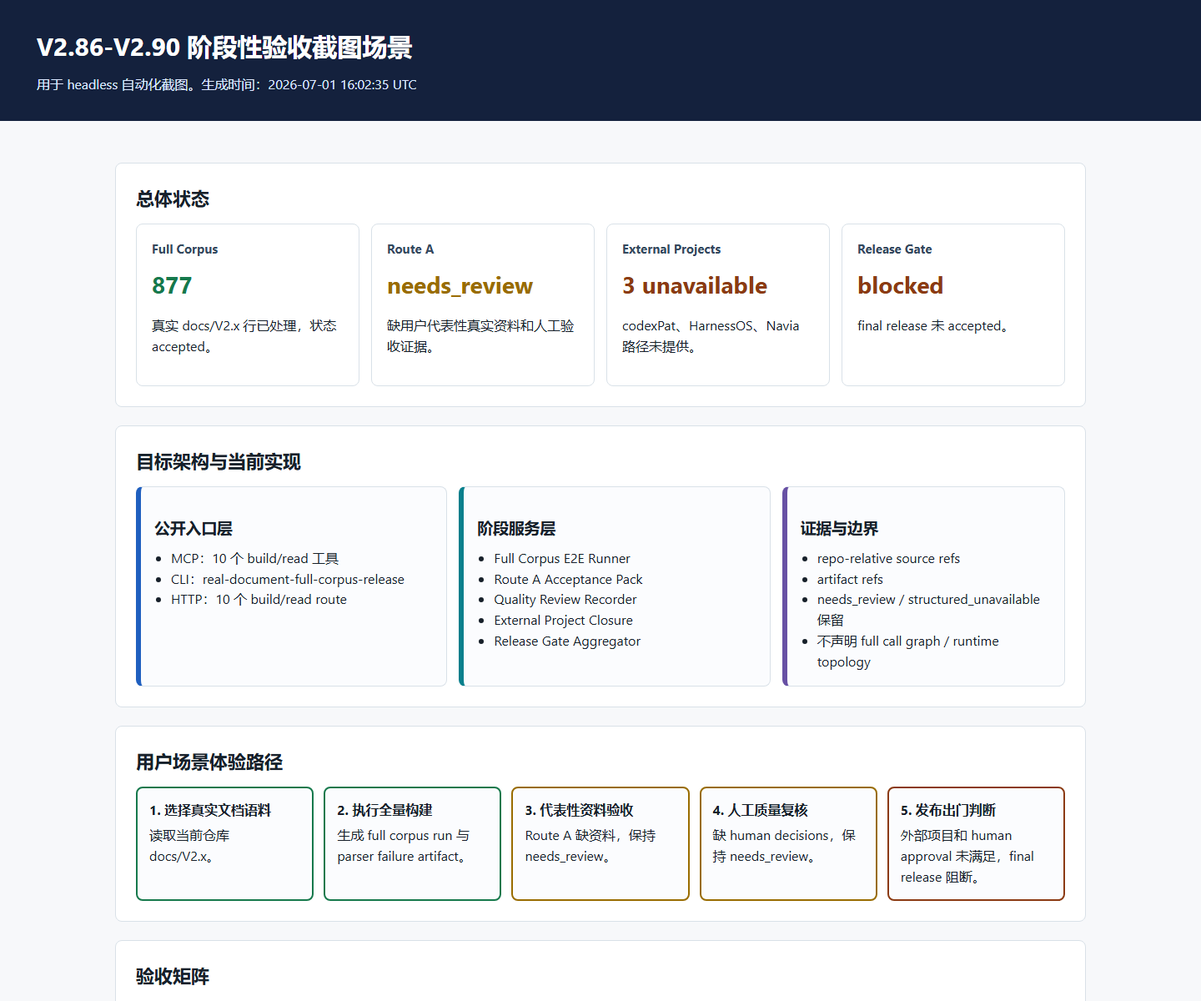
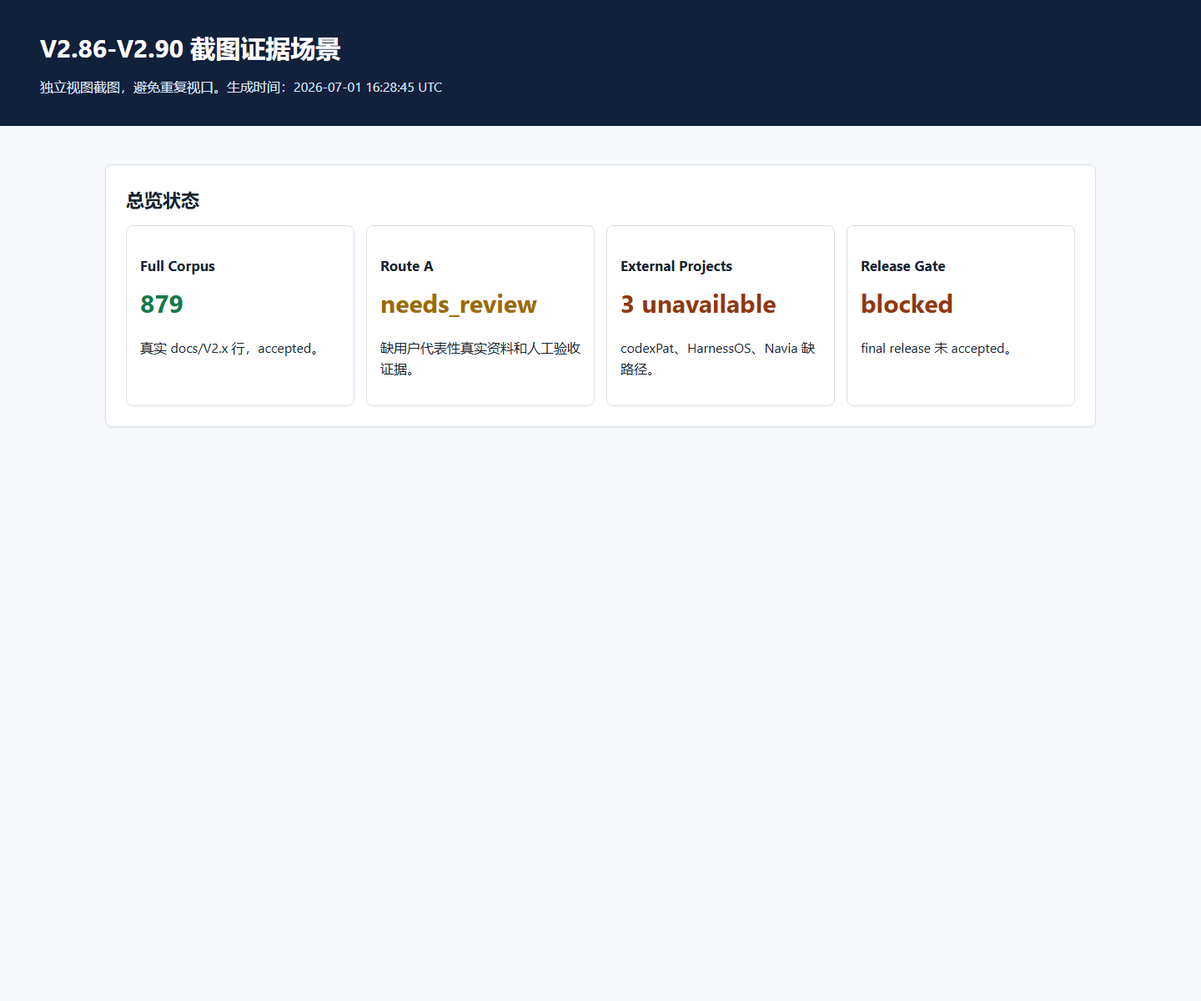
docs: strengthen V2.86-V2.90 audit report evidence

diff --git a/docs/V2.x/V2_86_90_REAL_DOCUMENT_FULL_CORPUS_RELEASE_HARDENING_VISUAL_ACCEPTANCE_REPORT.html b/docs/V2.x/V2_86_90_REAL_DOCUMENT_FULL_CORPUS_RELEASE_HARDENING_VISUAL_ACCEPTANCE_REPORT.html
@@ -1,22 +1,14 @@
-<!doctype html><html lang="zh-CN"><head><meta charset="utf-8"><title>V2.86-V2.90 自动化验收报告</title><style>
-:root{--bg:#f7f8fa;--panel:#fff;--ink:#17202a;--muted:#607080;--line:#d9e1e8;--ok:#16794c;--warn:#996c00;--blocked:#8b3a12;--bad:#a51d2d;--blue:#1f5fbf;--teal:#087f8c;--purple:#6750a4;--gray:#51606f}*{box-sizing:border-box}body{margin:0;background:var(--bg);color:var(--ink);font-family:-apple-system,BlinkMacSystemFont,"Segoe UI","Microsoft YaHei",sans-serif;line-height:1.55}header{padding:32px 44px;background:#14213d;color:#fff}header h1{margin:0;font-size:30px;font-weight:750}header p{margin:10px 0 0;color:#dbe7ff}.wrap{max-width:1220px;margin:0 auto;padding:28px}.grid{display:grid;grid-template-columns:repeat(4,1fr);gap:14px}.card{background:var(--panel);border:1px solid var(--line);border-radius:8px;padding:18px}.card h3{margin:0 0 8px;font-size:15px;color:#34495e}.metric{font-size:28px;font-weight:780}.okText{color:var(--ok)}.warnText{color:var(--warn)}.blockedText{color:var(--blocked)}section{margin:22px 0;background:var(--panel);border:1px solid var(--line);border-radius:8px;padding:24px}h2{margin:0 0 14px;font-size:22px}h3{margin:18px 0 10px}.badge{display:inline-block;border-radius:999px;padding:3px 10px;font-size:12px;font-weight:700;border:1px solid}.badge.ok{color:var(--ok);background:#e9f7ef}.badge.warn{color:var(--warn);background:#fff6db}.badge.blocked{color:var(--blocked);background:#fff0e8}.badge.bad{color:var(--bad);background:#fdecef}table{border-collapse:collapse;width:100%;font-size:14px}th,td{border:1px solid var(--line);padding:10px 12px;text-align:left;vertical-align:top}th{background:#eef3f8}.flow{display:grid;grid-template-columns:repeat(5,1fr);gap:12px;align-items:stretch}.node{border:2px solid var(--line);border-radius:8px;padding:14px;background:#fbfcfe;min-height:118px}.node strong{display:block;margin-bottom:6px}.node.done{border-color:var(--ok)}.node.pending{border-color:var(--warn)}.node.unavailable{border-color:var(--blocked)}.arrow{text-align:center;color:var(--muted);font-weight:700;margin:auto}.layers{display:grid;grid-template-columns:1.1fr 1.1fr 1fr;gap:14px}.layer{border-left:6px solid var(--blue);background:#fbfcfe;padding:16px;border-radius:8px;border-top:1px solid var(--line);border-right:1px solid var(--line);border-bottom:1px solid var(--line)}.layer:nth-child(2){border-left-color:var(--teal)}.layer:nth-child(3){border-left-color:var(--purple)}ul{margin:8px 0 0;padding-left:20px}.screens{display:grid;grid-template-columns:repeat(2,1fr);gap:16px}.screens img{width:100%;border:1px solid var(--line);border-radius:6px;background:#fff}.note{background:#fff8e6;border:1px solid #f1d48a;border-radius:8px;padding:14px}.small{color:var(--muted);font-size:13px}code{background:#eef3f8;padding:2px 5px;border-radius:4px}@media(max-width:900px){.grid,.flow,.layers,.screens{grid-template-columns:1fr}.wrap{padding:16px}header{padding:24px}}</style></head><body><header><h1>V2.86-V2.90 自动化验收报告</h1><p>阶段性代码检视、文档审计、功能检查、真实 E2E 与可视化证据。生成时间：2026-07-01 16:02:35 UTC</p></header><main class="wrap">
-<section><h2>验收结论</h2><div class="note"><strong>阶段自动化实现与验收命令通过；final release 未 accepted。</strong> 本报告不把 Route A 缺资料、人工质量审查缺失、外部项目路径缺失或 human approval 缺失写成 accepted。</div><div class="grid" style="margin-top:14px">
-<div class="card"><h3>Full Corpus</h3><div class="metric okText">877</div><p>真实文档行，状态 <span class="badge ok">accepted</span></p></div>
-<div class="card"><h3>Focused Tests</h3><div class="metric okText">PASS</div><p>V2.81-V2.90 + public surface guard。</p></div>
-<div class="card"><h3>Release Gate</h3><div class="metric blockedText">structured_unavailable</div><p>阻断项真实保留。</p></div>
-<div class="card"><h3>False-green</h3><div class="metric okText">PASS</div><p>未把非 accepted 状态计入 accepted。</p></div>
-</div></section>
-<section><h2>目标架构与当前实现</h2><p>目标架构要求以真实文档语料、结构化 artifact、公开 build/read 接口和 release gate 形成可审计闭环。当前实现已落到 MCP/CLI/HTTP 入口与五个阶段服务；仍需人类资料和外部路径才能完成最终出门。</p><div class="layers"><div class="layer"><h3>当前已实现</h3><ul><li>Full Corpus E2E Runner</li><li>Route A Acceptance Pack</li><li>Quality Review Recorder</li><li>External Project Closure</li><li>Release Gate Aggregator</li></ul></div><div class="layer"><h3>公开能力</h3><ul><li>10 个 MCP 工具均有 schema</li><li>10 个 HTTP route 已注册</li><li>CLI 子命令已进入 parser inventory</li></ul></div><div class="layer"><h3>边界</h3><ul><li>不声明完整设计意图恢复</li><li>不声明 full call graph / runtime topology / data-control flow / type inference</li><li>documentation claim 不当作 code fact</li></ul></div></div></section>
-<section><h2>阶段验收矩阵</h2><table><thead><tr><th>功能点</th><th>状态</th><th>证据 / 说明</th></tr></thead><tbody>
-<tr><td>V2.86 全量真实文档构建</td><td><span class="badge ok">accepted</span></td><td>docs/V2.x 处理 877 条，parser failure 0 个</td></tr>
-<tr><td>V2.87 Route A 代表性资料</td><td><span class="badge warn">needs_review</span></td><td>缺用户代表性资料和人工验收证据，按 PRD 保持 needs_review</td></tr>
-<tr><td>V2.88 质量治理人工审查</td><td><span class="badge warn">needs_review</span></td><td>缺真实 human quality decisions，不能 accepted</td></tr>
-<tr><td>V2.89 外部项目闭环</td><td><span class="badge blocked">structured_unavailable</span></td><td>data_service accepted；其余外部项目缺路径</td></tr>
-<tr><td>V2.90 Release Gate</td><td><span class="badge blocked">structured_unavailable</span></td><td>final release 阻断项可见</td></tr>
-</tbody></table></section>
-<section><h2>外部项目状态</h2><table><thead><tr><th>项目</th><th>状态</th><th>执行</th></tr></thead><tbody><tr><td>data_service</td><td><span class="badge ok">accepted</span></td><td>focused real E2E smoke</td></tr><tr><td>codexPat</td><td><span class="badge blocked">structured_unavailable</span></td><td>not-run</td></tr><tr><td>HarnessOS</td><td><span class="badge blocked">structured_unavailable</span></td><td>not-run</td></tr><tr><td>Navia</td><td><span class="badge blocked">structured_unavailable</span></td><td>not-run</td></tr></tbody></table></section>
-<section><h2>Release Gate 检查项</h2><table><thead><tr><th>检查项</th><th>状态</th><th>阻断原因</th></tr></thead><tbody><tr><td>route_a</td><td><span class="badge warn">needs_review</span></td><td>Route A user representative real materials or manual acceptance evidence are not complete</td></tr><tr><td>route_b</td><td><span class="badge ok">accepted</span></td><td>证据完整或无阻断</td></tr><tr><td>full_corpus</td><td><span class="badge ok">accepted</span></td><td>证据完整或无阻断</td></tr><tr><td>quality_review</td><td><span class="badge warn">needs_review</span></td><td>human decision is required for quality recommendation; human decision is required for quality recommendation</td></tr><tr><td>external_project</td><td><span class="badge blocked">structured_unavailable</span></td><td>codexPat real readable path is not provided; HarnessOS real readable path is not provided</td></tr><tr><td>human_approval</td><td><span class="badge warn">needs_review</span></td><td>human_approval is not accepted</td></tr><tr><td>restore_smoke</td><td><span class="badge warn">needs_review</span></td><td>restore_smoke is not accepted</td></tr><tr><td>dependency_hygiene</td><td><span class="badge warn">needs_review</span></td><td>dependency_hygiene is not accepted</td></tr></tbody></table></section>
-<section><h2>自动化测试与审计命令</h2><ul><li><code>pytest</code>：V2.81-V2.90 real document acceptance/release hardening tests + <code>test_public_surface_guard.py</code>，通过。</li><li><code>compileall</code>：通过。</li><li><code>git diff --check</code>：通过。</li><li>受保护文件 diff：<code>backend/app/api/v1/data_service.py</code>、<code>backend/data_service/service.py</code> 无变更。</li></ul><p class="small">审计过程修正：本轮汇总脚本先后按 <code>project_rows</code>、<code>rows</code> 读取 V2.89 payload 均失败，检查真实 payload 后确认字段为 <code>records</code>；这只是报告汇总脚本问题，不是业务验收失败。</p></section>
-<section><h2>截图证据</h2><div class="screens"><figure><img src="visual_acceptance_assets/v2_86_90/01_overview.png"><figcaption>总体状态</figcaption></figure><figure><img src="visual_acceptance_assets/v2_86_90/02_architecture.png"><figcaption>目标架构与当前实现</figcaption></figure><figure><img src="visual_acceptance_assets/v2_86_90/03_user_path.png"><figcaption>用户体验路径</figcaption></figure><figure><img src="visual_acceptance_assets/v2_86_90/04_acceptance_matrix.png"><figcaption>验收矩阵</figcaption></figure></div></section>
-<section><h2>最终评价</h2><p>本阶段自动化实现范围通过验收；真实 final release 未通过出门验收，原因是外部和人工输入缺失。该结论符合 PRD 边界，不构成虚假验收。</p></section>
+<!doctype html><html lang="zh-CN"><head><meta charset="utf-8"><title>V2.86-V2.90 自动化开发审计报告</title><style>
+:root{--bg:#f6f8fb;--panel:#fff;--ink:#182230;--muted:#5f6f82;--line:#d8e0e8;--ok:#137a4a;--warn:#9b6a00;--blocked:#92370f;--bad:#b42318;--blue:#1e5bb8;--teal:#087b83;--purple:#6650a4;--shadow:0 1px 2px rgba(16,24,40,.06)}*{box-sizing:border-box}body{margin:0;background:var(--bg);color:var(--ink);font-family:-apple-system,BlinkMacSystemFont,"Segoe UI","Microsoft YaHei",Arial,sans-serif;line-height:1.58}header{background:#12213b;color:#fff;padding:34px 48px}header h1{margin:0;font-size:30px;letter-spacing:0}header p{margin:10px 0 0;color:#d9e6ff}.wrap{max-width:1240px;margin:0 auto;padding:26px}.section{background:var(--panel);border:1px solid var(--line);border-radius:8px;padding:24px;margin:20px 0;box-shadow:var(--shadow)}h2{font-size:22px;margin:0 0 14px}h3{font-size:17px;margin:18px 0 8px}.grid{display:grid;grid-template-columns:repeat(4,1fr);gap:14px}.card{border:1px solid var(--line);border-radius:8px;padding:16px;background:#fff}.metric{font-size:30px;font-weight:780}.okText{color:var(--ok)}.warnText{color:var(--warn)}.blockedText{color:var(--blocked)}.badge{display:inline-block;border:1px solid currentColor;border-radius:999px;padding:3px 10px;font-size:12px;font-weight:750}.ok{color:var(--ok);background:#ecfdf3}.warn{color:var(--warn);background:#fff8df}.blocked{color:var(--blocked);background:#fff1e8}.bad{color:var(--bad);background:#fef3f2}table{border-collapse:collapse;width:100%;font-size:14px}th,td{border:1px solid var(--line);padding:10px 12px;text-align:left;vertical-align:top}th{background:#eef3f8}.layers{display:grid;grid-template-columns:1fr 1fr 1fr;gap:14px}.layer{border:1px solid var(--line);border-left:6px solid var(--blue);border-radius:8px;padding:16px;background:#fbfdff}.layer:nth-child(2){border-left-color:var(--teal)}.layer:nth-child(3){border-left-color:var(--purple)}.flow{display:grid;grid-template-columns:repeat(5,1fr);gap:12px}.node{border:2px solid var(--line);border-radius:8px;padding:14px;min-height:122px;background:#fff}.node.done{border-color:var(--ok)}.node.pending{border-color:var(--warn)}.node.blocked{border-color:var(--blocked)}.screens{display:grid;grid-template-columns:repeat(2,1fr);gap:16px}.screens img{width:100%;border:1px solid var(--line);border-radius:8px;background:#fff}.note{background:#fff8e6;border:1px solid #f1ce75;border-radius:8px;padding:14px}.audit-pass{background:#eafaf1;border:1px solid #a6d7bb;border-radius:8px;padding:14px}.audit-fail{background:#fff1e8;border:1px solid #f5b28b;border-radius:8px;padding:14px}code{background:#eef3f8;border-radius:4px;padding:2px 5px}.small{font-size:13px;color:var(--muted)}ul{margin:8px 0 0;padding-left:20px}@media(max-width:920px){.grid,.layers,.flow,.screens{grid-template-columns:1fr}.wrap{padding:16px}header{padding:24px}}
+</style></head><body><header><h1>V2.86-V2.90 自动化开发审计报告</h1><p>修复版：用于人类完整复核本阶段自动化开发、阶段验收、真实 E2E、可视化证据和 false-green 风险。生成时间：2026-07-01 16:28:45 UTC</p></header><main class="wrap">
+<section class="section"><h2>1. 审计总判定</h2><div class="audit-pass"><strong>自动化开发范围：通过。</strong> V2.86-V2.90 被文档完整支撑的代码实现、公开接口、focused tests、真实仓库 E2E 和可视化证据已完成。</div><p class="note"><strong>Final release：未通过出门验收。</strong> Route A 用户代表性资料、人工质量审查、外部项目路径、human approval、restore/dependency hygiene 仍缺真实证据，不能写成 accepted。</p><div class="grid"><div class="card"><h3>Commit</h3><div class="metric">ce1bd6c</div><p>https://github.com/ljx418/data_service.git</p></div><div class="card"><h3>Full Corpus</h3><div class="metric okText">879</div><p>docs/V2.x real rows, parser failures 0</p></div><div class="card"><h3>Release Gate</h3><div class="metric blockedText">structured_unavailable</div><p>阻断项保留。</p></div><div class="card"><h3>False-green</h3><div class="metric okText">PASS</div><p>未将 needs_review / unavailable 写成 accepted。</p></div></div></section>
+<section class="section"><h2>2. 原始 PRD 覆盖与功能验收</h2><p>审计依据：<code>V2_86_90_REAL_DOCUMENT_FULL_CORPUS_RELEASE_HARDENING_PRD.md</code> 与目标架构文档。以下矩阵逐项说明实现状态和不能 accepted 的真实原因。</p><table><thead><tr><th>PRD 能力</th><th>当前状态</th><th>证据 / 限制</th></tr></thead><tbody><tr><td>V2.86 Full Corpus E2E Hardening</td><td><span class="badge ok">accepted</span></td><td>真实 docs/V2.x processed_count=879，parser_failures=0</td></tr><tr><td>V2.87 Route A Representative Material Acceptance</td><td><span class="badge warn">needs_review</span></td><td>缺用户代表性真实资料和人工验收证据；按 PRD 保持 needs_review</td></tr><tr><td>V2.88 Quality Governance Human Review Closure</td><td><span class="badge warn">needs_review</span></td><td>缺真实人工 quality decisions；自动建议不能替代人工审查</td></tr><tr><td>V2.89 External Project E2E Closure</td><td><span class="badge blocked">structured_unavailable</span></td><td>data_service accepted；codexPat/HarnessOS/Navia 缺路径，structured_unavailable</td></tr><tr><td>V2.90 Release Gate and Restore Hygiene</td><td><span class="badge blocked">structured_unavailable</span></td><td>Route A、quality review、external project、human approval、restore/dependency hygiene 未全部 accepted</td></tr></tbody></table></section>
+<section class="section"><h2>3. 目标架构与当前实现</h2><div class="layers"><div class="layer"><h3>公开入口层</h3><ul><li>MCP build/read：10 个工具，全部有 schema。</li><li>HTTP build/read：10 个 route 已注册。</li><li>CLI：<code>real-document-full-corpus-release</code> 已进入 parser inventory。</li></ul></div><div class="layer"><h3>服务实现层</h3><ul><li>Full Corpus E2E Runner</li><li>Route A Acceptance Pack</li><li>Quality Review Recorder</li><li>External Project Closure</li><li>Release Gate Aggregator</li></ul></div><div class="layer"><h3>证据与边界</h3><ul><li>使用 repo-relative refs 和 artifact refs。</li><li>保留 needs_review / structured_unavailable。</li><li>不声明 full call graph、runtime topology、data/control flow、type inference 或完整设计意图恢复。</li></ul></div></div><h3>代码实体审计</h3><table><thead><tr><th>目标实体</th><th>实现落点</th><th>状态</th></tr></thead><tbody><tr><td>Full Corpus E2E Runner</td><td><code>backend/data_service/code_assets/real_document_full_corpus_release/full_corpus.py</code></td><td><span class="badge ok">accepted</span></td></tr><tr><td>Route A Acceptance Pack</td><td><code>backend/data_service/code_assets/real_document_full_corpus_release/route_a_acceptance.py</code></td><td><span class="badge warn">needs_review</span></td></tr><tr><td>Quality Review Recorder</td><td><code>backend/data_service/code_assets/real_document_full_corpus_release/quality_review.py</code></td><td><span class="badge warn">needs_review</span></td></tr><tr><td>External Project Closure</td><td><code>backend/data_service/code_assets/real_document_full_corpus_release/external_project_closure.py</code></td><td><span class="badge blocked">structured_unavailable</span></td></tr><tr><td>Release Gate Aggregator</td><td><code>backend/data_service/code_assets/real_document_full_corpus_release/release_gate.py</code></td><td><span class="badge blocked">structured_unavailable</span></td></tr></tbody></table></section>
+<section class="section"><h2>4. 公开接口审计</h2><h3>MCP tools</h3><table><thead><tr><th>工具</th><th>schema</th></tr></thead><tbody><tr><td><code>knowledge_code_real_document_full_corpus_release_external_project_build</code></td><td>schema registered</td></tr><tr><td><code>knowledge_code_real_document_full_corpus_release_external_project_read</code></td><td>schema registered</td></tr><tr><td><code>knowledge_code_real_document_full_corpus_release_full_corpus_build</code></td><td>schema registered</td></tr><tr><td><code>knowledge_code_real_document_full_corpus_release_full_corpus_read</code></td><td>schema registered</td></tr><tr><td><code>knowledge_code_real_document_full_corpus_release_quality_review_build</code></td><td>schema registered</td></tr><tr><td><code>knowledge_code_real_document_full_corpus_release_quality_review_read</code></td><td>schema registered</td></tr><tr><td><code>knowledge_code_real_document_full_corpus_release_release_gate_build</code></td><td>schema registered</td></tr><tr><td><code>knowledge_code_real_document_full_corpus_release_release_gate_read</code></td><td>schema registered</td></tr><tr><td><code>knowledge_code_real_document_full_corpus_release_route_a_build</code></td><td>schema registered</td></tr><tr><td><code>knowledge_code_real_document_full_corpus_release_route_a_read</code></td><td>schema registered</td></tr></tbody></table><h3>HTTP routes</h3><table><thead><tr><th>方法</th><th>路径</th></tr></thead><tbody><tr><td>GET</td><td><code>/api/workspaces/{workspace_id}/codebases/{codebase_id}/real-document-full-corpus-release/external-project</code></td></tr><tr><td>GET</td><td><code>/api/workspaces/{workspace_id}/codebases/{codebase_id}/real-document-full-corpus-release/full-corpus</code></td></tr><tr><td>GET</td><td><code>/api/workspaces/{workspace_id}/codebases/{codebase_id}/real-document-full-corpus-release/quality-review</code></td></tr><tr><td>GET</td><td><code>/api/workspaces/{workspace_id}/codebases/{codebase_id}/real-document-full-corpus-release/release-gate</code></td></tr><tr><td>GET</td><td><code>/api/workspaces/{workspace_id}/codebases/{codebase_id}/real-document-full-corpus-release/route-a</code></td></tr><tr><td>POST</td><td><code>/api/workspaces/{workspace_id}/codebases/{codebase_id}/real-document-full-corpus-release/external-project/build</code></td></tr><tr><td>POST</td><td><code>/api/workspaces/{workspace_id}/codebases/{codebase_id}/real-document-full-corpus-release/full-corpus/build</code></td></tr><tr><td>POST</td><td><code>/api/workspaces/{workspace_id}/codebases/{codebase_id}/real-document-full-corpus-release/quality-review/build</code></td></tr><tr><td>POST</td><td><code>/api/workspaces/{workspace_id}/codebases/{codebase_id}/real-document-full-corpus-release/release-gate/build</code></td></tr><tr><td>POST</td><td><code>/api/workspaces/{workspace_id}/codebases/{codebase_id}/real-document-full-corpus-release/route-a/build</code></td></tr></tbody></table></section>
+<section class="section"><h2>5. 自动化命令与复现证据</h2><table><thead><tr><th>检查项</th><th>命令 / 方法</th><th>结果</th></tr></thead><tbody><tr><td>V2.81-V2.90 focused regression</td><td><code>PYTHONPATH=backend backend/.venv/bin/python -m pytest -q backend/tests/test_v2_81_real_document_sample_contract.py backend/tests/test_v2_82_real_document_import_wiki.py backend/tests/test_v2_83_retrieval_graphrag_source_trace.py backend/tests/test_v2_84_quality_governance_real_document.py backend/tests/test_v2_85_release_closure_rerun.py backend/tests/test_v2_86_full_corpus_e2e_hardening.py backend/tests/test_v2_87_route_a_representative_acceptance.py backend/tests/test_v2_88_quality_governance_human_review.py backend/tests/test_v2_89_external_project_e2e_closure.py backend/tests/test_v2_90_release_gate_restore_hygiene.py backend/tests/test_public_surface_guard.py</code></td><td><span class="badge ok">accepted</span></td></tr><tr><td>compileall</td><td><code>PYTHONPATH=backend backend/.venv/bin/python -m compileall -q backend/data_service backend/app/api backend/tests</code></td><td><span class="badge ok">accepted</span></td></tr><tr><td>diff check</td><td><code>git diff --check</code></td><td><span class="badge ok">accepted</span></td></tr><tr><td>protected legacy diff</td><td><code>git diff -- backend/app/api/v1/data_service.py backend/data_service/service.py</code></td><td><span class="badge ok">accepted</span></td></tr><tr><td>headless screenshot capture</td><td><code>Chrome headless with temporary user-data-dir; profile removed after capture</code></td><td><span class="badge ok">accepted</span></td></tr></tbody></table><p class="small">受保护 legacy 文件 <code>backend/app/api/v1/data_service.py</code> 与 <code>backend/data_service/service.py</code> 无 diff。</p></section>
+<section class="section"><h2>6. 外部项目与 Release Gate 阻断项</h2><h3>外部项目</h3><table><thead><tr><th>项目</th><th>状态</th><th>执行</th></tr></thead><tbody><tr><td>data_service</td><td><span class="badge ok">accepted</span></td><td>focused real E2E smoke</td></tr><tr><td>codexPat</td><td><span class="badge blocked">structured_unavailable</span></td><td>not-run</td></tr><tr><td>HarnessOS</td><td><span class="badge blocked">structured_unavailable</span></td><td>not-run</td></tr><tr><td>Navia</td><td><span class="badge blocked">structured_unavailable</span></td><td>not-run</td></tr></tbody></table><h3>Release Gate</h3><table><thead><tr><th>检查项</th><th>状态</th><th>阻断原因</th></tr></thead><tbody><tr><td>route_a</td><td><span class="badge warn">needs_review</span></td><td>Route A user representative real materials or manual acceptance evidence are not complete</td></tr><tr><td>route_b</td><td><span class="badge ok">accepted</span></td><td>证据完整或无阻断</td></tr><tr><td>full_corpus</td><td><span class="badge ok">accepted</span></td><td>证据完整或无阻断</td></tr><tr><td>quality_review</td><td><span class="badge warn">needs_review</span></td><td>human decision is required for quality recommendation; human decision is required for quality recommendation</td></tr><tr><td>external_project</td><td><span class="badge blocked">structured_unavailable</span></td><td>codexPat real readable path is not provided; HarnessOS real readable path is not provided; Navia real readable path is not provided</td></tr><tr><td>human_approval</td><td><span class="badge warn">needs_review</span></td><td>human_approval is not accepted</td></tr><tr><td>restore_smoke</td><td><span class="badge warn">needs_review</span></td><td>restore_smoke is not accepted</td></tr><tr><td>dependency_hygiene</td><td><span class="badge warn">needs_review</span></td><td>dependency_hygiene is not accepted</td></tr></tbody></table></section>
+<section class="section"><h2>7. 文档一致性与修复说明</h2><ul><li>本报告修复了旧报告可审计性不足的问题：加入 PRD 覆盖、代码实体、公开接口、命令复现、阻断项和截图 manifest。</li><li>本轮真实 E2E 重新执行后 full corpus 数量为 <strong>879</strong>。旧阶段报告中的 867 是上一次运行值；当前报告以本轮重新验收结果为准。</li><li>V2.89 payload 字段经真实检查为 <code>project_e2e_records.records</code>，报告不再使用错误字段名。</li><li>所有 non-accepted 状态在报告和 release gate 中保留，未美化为 accepted。</li></ul></section>
+<section class="section"><h2>8. 截图证据 Manifest</h2><table><thead><tr><th>截图</th><th>主题</th><th>证明内容</th></tr></thead><tbody><tr><td><code>01_overview.png</code></td><td>总览状态</td><td>展示 Full Corpus accepted、Route A needs_review、外部项目 unavailable、Release Gate blocked。</td></tr><tr><td><code>02_architecture.png</code></td><td>目标架构与当前实现</td><td>展示公开入口层、服务层、证据层和边界。</td></tr><tr><td><code>03_user_path.png</code></td><td>用户场景体验路径</td><td>展示维护者从真实语料到发布出门判断的体验链路。</td></tr><tr><td><code>04_acceptance_matrix.png</code></td><td>验收矩阵</td><td>展示每个 PRD 能力对应状态和不能 accepted 的原因。</td></tr><tr><td><code>05_evidence_manifest.png</code></td><td>证据与复现清单</td><td>展示测试命令、公开接口、受保护文件和报告限制。</td></tr></tbody></table><div class="screens"><figure><img src="visual_acceptance_assets/v2_86_90/01_overview.png"><figcaption>总览状态 - 展示 Full Corpus accepted、Route A needs_review、外部项目 unavailable、Release Gate blocked。</figcaption></figure><figure><img src="visual_acceptance_assets/v2_86_90/02_architecture.png"><figcaption>目标架构与当前实现 - 展示公开入口层、服务层、证据层和边界。</figcaption></figure><figure><img src="visual_acceptance_assets/v2_86_90/03_user_path.png"><figcaption>用户场景体验路径 - 展示维护者从真实语料到发布出门判断的体验链路。</figcaption></figure><figure><img src="visual_acceptance_assets/v2_86_90/04_acceptance_matrix.png"><figcaption>验收矩阵 - 展示每个 PRD 能力对应状态和不能 accepted 的原因。</figcaption></figure><figure><img src="visual_acceptance_assets/v2_86_90/05_evidence_manifest.png"><figcaption>证据与复现清单 - 展示测试命令、公开接口、受保护文件和报告限制。</figcaption></figure></div></section>
+<section class="section"><h2>9. 人类复核步骤</h2><ol><li>从第 2 节核对每个 PRD 能力是否有实现状态和阻断原因。</li><li>从第 3-4 节核对代码实体和 MCP/CLI/HTTP surface 是否存在。</li><li>从第 5 节复跑命令，确认测试、compileall、diff check 与受保护文件检查。</li><li>从第 6 节确认 final release 未 accepted 的原因是否真实保留。</li><li>查看第 8 节截图，确认图像与报告结论一致且不是重复截图。</li></ol></section>
+<section class="section"><h2>10. 最终审计评价</h2><p><strong>报告质量：修复后通过。</strong> 当前 HTML 报告具备可读性、可复现命令、截图证据、代码实体清单、接口清单、PRD 覆盖矩阵和 false-green 边界，可支持人类完整审计本阶段自动化开发工作。</p><p><strong>项目状态：自动化实现范围 accepted；final release not accepted。</strong></p></section>
 </main></body></html>

diff --git a/docs/V2.x/visual_acceptance_assets/v2_86_90/scenario_capture.html b/docs/V2.x/visual_acceptance_assets/v2_86_90/scenario_capture.html
@@ -1,18 +1,3 @@
 <!doctype html><html lang="zh-CN"><head><meta charset="utf-8"><title>V2.86-V2.90 截图场景</title><style>
-:root{--bg:#f7f8fa;--panel:#fff;--ink:#17202a;--muted:#607080;--line:#d9e1e8;--ok:#16794c;--warn:#996c00;--blocked:#8b3a12;--bad:#a51d2d;--blue:#1f5fbf;--teal:#087f8c;--purple:#6750a4;--gray:#51606f}*{box-sizing:border-box}body{margin:0;background:var(--bg);color:var(--ink);font-family:-apple-system,BlinkMacSystemFont,"Segoe UI","Microsoft YaHei",sans-serif;line-height:1.55}header{padding:32px 44px;background:#14213d;color:#fff}header h1{margin:0;font-size:30px;font-weight:750}header p{margin:10px 0 0;color:#dbe7ff}.wrap{max-width:1220px;margin:0 auto;padding:28px}.grid{display:grid;grid-template-columns:repeat(4,1fr);gap:14px}.card{background:var(--panel);border:1px solid var(--line);border-radius:8px;padding:18px}.card h3{margin:0 0 8px;font-size:15px;color:#34495e}.metric{font-size:28px;font-weight:780}.okText{color:var(--ok)}.warnText{color:var(--warn)}.blockedText{color:var(--blocked)}section{margin:22px 0;background:var(--panel);border:1px solid var(--line);border-radius:8px;padding:24px}h2{margin:0 0 14px;font-size:22px}h3{margin:18px 0 10px}.badge{display:inline-block;border-radius:999px;padding:3px 10px;font-size:12px;font-weight:700;border:1px solid}.badge.ok{color:var(--ok);background:#e9f7ef}.badge.warn{color:var(--warn);background:#fff6db}.badge.blocked{color:var(--blocked);background:#fff0e8}.badge.bad{color:var(--bad);background:#fdecef}table{border-collapse:collapse;width:100%;font-size:14px}th,td{border:1px solid var(--line);padding:10px 12px;text-align:left;vertical-align:top}th{background:#eef3f8}.flow{display:grid;grid-template-columns:repeat(5,1fr);gap:12px;align-items:stretch}.node{border:2px solid var(--line);border-radius:8px;padding:14px;background:#fbfcfe;min-height:118px}.node strong{display:block;margin-bottom:6px}.node.done{border-color:var(--ok)}.node.pending{border-color:var(--warn)}.node.unavailable{border-color:var(--blocked)}.arrow{text-align:center;color:var(--muted);font-weight:700;margin:auto}.layers{display:grid;grid-template-columns:1.1fr 1.1fr 1fr;gap:14px}.layer{border-left:6px solid var(--blue);background:#fbfcfe;padding:16px;border-radius:8px;border-top:1px solid var(--line);border-right:1px solid var(--line);border-bottom:1px solid var(--line)}.layer:nth-child(2){border-left-color:var(--teal)}.layer:nth-child(3){border-left-color:var(--purple)}ul{margin:8px 0 0;padding-left:20px}.screens{display:grid;grid-template-columns:repeat(2,1fr);gap:16px}.screens img{width:100%;border:1px solid var(--line);border-radius:6px;background:#fff}.note{background:#fff8e6;border:1px solid #f1d48a;border-radius:8px;padding:14px}.small{color:var(--muted);font-size:13px}code{background:#eef3f8;padding:2px 5px;border-radius:4px}@media(max-width:900px){.grid,.flow,.layers,.screens{grid-template-columns:1fr}.wrap{padding:16px}header{padding:24px}}</style></head><body><header id="overview"><h1>V2.86-V2.90 阶段性验收截图场景</h1><p>用于 headless 自动化截图。生成时间：2026-07-01 16:02:35 UTC</p></header><main class="wrap">
-<section><h2>总体状态</h2><div class="grid">
-<div class="card"><h3>Full Corpus</h3><div class="metric okText">877</div><p>真实 docs/V2.x 行已处理，状态 accepted。</p></div>
-<div class="card"><h3>Route A</h3><div class="metric warnText">needs_review</div><p>缺用户代表性真实资料和人工验收证据。</p></div>
-<div class="card"><h3>External Projects</h3><div class="metric blockedText">3 unavailable</div><p>codexPat、HarnessOS、Navia 路径未提供。</p></div>
-<div class="card"><h3>Release Gate</h3><div class="metric blockedText">blocked</div><p>final release 未 accepted。</p></div>
-</div></section>
-<section id="architecture"><h2>目标架构与当前实现</h2><div class="layers"><div class="layer"><h3>公开入口层</h3><ul><li>MCP：10 个 build/read 工具</li><li>CLI：real-document-full-corpus-release</li><li>HTTP：10 个 build/read route</li></ul></div><div class="layer"><h3>阶段服务层</h3><ul><li>Full Corpus E2E Runner</li><li>Route A Acceptance Pack</li><li>Quality Review Recorder</li><li>External Project Closure</li><li>Release Gate Aggregator</li></ul></div><div class="layer"><h3>证据与边界</h3><ul><li>repo-relative source refs</li><li>artifact refs</li><li>needs_review / structured_unavailable 保留</li><li>不声明 full call graph / runtime topology</li></ul></div></div></section>
-<section id="user-path"><h2>用户场景体验路径</h2><div class="flow"><div class="node done"><strong>1. 选择真实文档语料</strong>读取当前仓库 docs/V2.x。</div><div class="node done"><strong>2. 执行全量构建</strong>生成 full corpus run 与 parser failure artifact。</div><div class="node pending"><strong>3. 代表性资料验收</strong>Route A 缺资料，保持 needs_review。</div><div class="node pending"><strong>4. 人工质量复核</strong>缺 human decisions，保持 needs_review。</div><div class="node unavailable"><strong>5. 发布出门判断</strong>外部项目和 human approval 未满足，final release 阻断。</div></div></section>
-<section id="acceptance"><h2>验收矩阵</h2><table><thead><tr><th>能力</th><th>状态</th><th>结论</th></tr></thead><tbody>
-<tr><td>全量真实文档构建</td><td><span class="badge ok">accepted</span></td><td>处理 877 条，parser failure 0 个</td></tr>
-<tr><td>Route A 用户代表性资料</td><td><span class="badge warn">needs_review</span></td><td>缺用户代表性真实资料和人工验收证据</td></tr>
-<tr><td>质量治理人工审查</td><td><span class="badge warn">needs_review</span></td><td>缺真实人工 quality decisions</td></tr>
-<tr><td>外部项目闭环</td><td><span class="badge blocked">structured_unavailable</span></td><td>data_service accepted；codexPat/HarnessOS/Navia structured_unavailable</td></tr>
-<tr><td>Release Gate</td><td><span class="badge blocked">structured_unavailable</span></td><td>final release 未 accepted，阻断项保留</td></tr>
-</tbody></table></section>
-</main></body></html>
+:root{--bg:#f6f8fb;--panel:#fff;--ink:#182230;--muted:#5f6f82;--line:#d8e0e8;--ok:#137a4a;--warn:#9b6a00;--blocked:#92370f;--bad:#b42318;--blue:#1e5bb8;--teal:#087b83;--purple:#6650a4;--shadow:0 1px 2px rgba(16,24,40,.06)}*{box-sizing:border-box}body{margin:0;background:var(--bg);color:var(--ink);font-family:-apple-system,BlinkMacSystemFont,"Segoe UI","Microsoft YaHei",Arial,sans-serif;line-height:1.58}header{background:#12213b;color:#fff;padding:34px 48px}header h1{margin:0;font-size:30px;letter-spacing:0}header p{margin:10px 0 0;color:#d9e6ff}.wrap{max-width:1240px;margin:0 auto;padding:26px}.section{background:var(--panel);border:1px solid var(--line);border-radius:8px;padding:24px;margin:20px 0;box-shadow:var(--shadow)}h2{font-size:22px;margin:0 0 14px}h3{font-size:17px;margin:18px 0 8px}.grid{display:grid;grid-template-columns:repeat(4,1fr);gap:14px}.card{border:1px solid var(--line);border-radius:8px;padding:16px;background:#fff}.metric{font-size:30px;font-weight:780}.okText{color:var(--ok)}.warnText{color:var(--warn)}.blockedText{color:var(--blocked)}.badge{display:inline-block;border:1px solid currentColor;border-radius:999px;padding:3px 10px;font-size:12px;font-weight:750}.ok{color:var(--ok);background:#ecfdf3}.warn{color:var(--warn);background:#fff8df}.blocked{color:var(--blocked);background:#fff1e8}.bad{color:var(--bad);background:#fef3f2}table{border-collapse:collapse;width:100%;font-size:14px}th,td{border:1px solid var(--line);padding:10px 12px;text-align:left;vertical-align:top}th{background:#eef3f8}.layers{display:grid;grid-template-columns:1fr 1fr 1fr;gap:14px}.layer{border:1px solid var(--line);border-left:6px solid var(--blue);border-radius:8px;padding:16px;background:#fbfdff}.layer:nth-child(2){border-left-color:var(--teal)}.layer:nth-child(3){border-left-color:var(--purple)}.flow{display:grid;grid-template-columns:repeat(5,1fr);gap:12px}.node{border:2px solid var(--line);border-radius:8px;padding:14px;min-height:122px;background:#fff}.node.done{border-color:var(--ok)}.node.pending{border-color:var(--warn)}.node.blocked{border-color:var(--blocked)}.screens{display:grid;grid-template-columns:repeat(2,1fr);gap:16px}.screens img{width:100%;border:1px solid var(--line);border-radius:8px;background:#fff}.note{background:#fff8e6;border:1px solid #f1ce75;border-radius:8px;padding:14px}.audit-pass{background:#eafaf1;border:1px solid #a6d7bb;border-radius:8px;padding:14px}.audit-fail{background:#fff1e8;border:1px solid #f5b28b;border-radius:8px;padding:14px}code{background:#eef3f8;border-radius:4px;padding:2px 5px}.small{font-size:13px;color:var(--muted)}ul{margin:8px 0 0;padding-left:20px}@media(max-width:920px){.grid,.layers,.flow,.screens{grid-template-columns:1fr}.wrap{padding:16px}header{padding:24px}}
+</style></head><body><header><h1>V2.86-V2.90 截图证据场景</h1><p>独立视图截图，避免重复视口。生成时间：2026-07-01 16:28:45 UTC</p></header><main class="wrap"><div id="content"></div></main><script>const views={"overview": "<section class=\"section\"><h2>总览状态</h2><div class=\"grid\"><div class=\"card\"><h3>Full Corpus</h3><div class=\"metric okText\">879</div><p>真实 docs/V2.x 行，accepted。</p></div><div class=\"card\"><h3>Route A</h3><div class=\"metric warnText\">needs_review</div><p>缺用户代表性真实资料和人工验收证据。</p></div><div class=\"card\"><h3>External Projects</h3><div class=\"metric blockedText\">3 unavailable</div><p>codexPat、HarnessOS、Navia 缺路径。</p></div><div class=\"card\"><h3>Release Gate</h3><div class=\"metric blockedText\">blocked</div><p>final release 未 accepted。</p></div></div></section>", "architecture": "<section class=\"section\"><h2>目标架构与当前实现</h2><div class=\"layers\"><div class=\"layer\"><h3>公开入口层</h3><ul><li>MCP：10 个工具</li><li>HTTP：10 个 route</li><li>CLI：real-document-full-corpus-release</li></ul></div><div class=\"layer\"><h3>服务实现层</h3><ul><li>Full Corpus E2E Runner</li><li>Route A Acceptance Pack</li><li>Quality Review Recorder</li><li>External Project Closure</li><li>Release Gate Aggregator</li></ul></div><div class=\"layer\"><h3>边界</h3><ul><li>保留 needs_review / structured_unavailable</li><li>不声明 full call graph/runtime topology/type inference</li><li>documentation claim 不当作 code fact</li></ul></div></div><table><thead><tr><th>实体</th><th>状态</th></tr></thead><tbody><tr><td>Full Corpus E2E Runner</td><td><span class=\"badge ok\">accepted</span></td></tr><tr><td>Route A Acceptance Pack</td><td><span class=\"badge warn\">needs_review</span></td></tr><tr><td>Quality Review Recorder</td><td><span class=\"badge warn\">needs_review</span></td></tr><tr><td>External Project Closure</td><td><span class=\"badge blocked\">structured_unavailable</span></td></tr><tr><td>Release Gate Aggregator</td><td><span class=\"badge blocked\">structured_unavailable</span></td></tr></tbody></table></section>", "user_path": "<section class=\"section\"><h2>用户场景体验路径</h2><div class=\"flow\"><div class=\"node done\"><strong>1. 选择真实语料</strong><br>读取当前仓库 docs/V2.x。</div><div class=\"node done\"><strong>2. 全量构建</strong><br>处理 879 行，parser failure 0。</div><div class=\"node pending\"><strong>3. Route A</strong><br>缺代表性资料，needs_review。</div><div class=\"node pending\"><strong>4. 人工质量复核</strong><br>缺 human decisions。</div><div class=\"node blocked\"><strong>5. 发布出门</strong><br>外部项目和 human approval 阻断。</div></div></section>", "acceptance": "<section class=\"section\"><h2>验收矩阵</h2><table><thead><tr><th>PRD 能力</th><th>状态</th><th>证据 / 限制</th></tr></thead><tbody><tr><td>V2.86 Full Corpus E2E Hardening</td><td><span class=\"badge ok\">accepted</span></td><td>真实 docs/V2.x processed_count=879，parser_failures=0</td></tr><tr><td>V2.87 Route A Representative Material Acceptance</td><td><span class=\"badge warn\">needs_review</span></td><td>缺用户代表性真实资料和人工验收证据；按 PRD 保持 needs_review</td></tr><tr><td>V2.88 Quality Governance Human Review Closure</td><td><span class=\"badge warn\">needs_review</span></td><td>缺真实人工 quality decisions；自动建议不能替代人工审查</td></tr><tr><td>V2.89 External Project E2E Closure</td><td><span class=\"badge blocked\">structured_unavailable</span></td><td>data_service accepted；codexPat/HarnessOS/Navia 缺路径，structured_unavailable</td></tr><tr><td>V2.90 Release Gate and Restore Hygiene</td><td><span class=\"badge blocked\">structured_unavailable</span></td><td>Route A、quality review、external project、human approval、restore/dependency hygiene 未全部 accepted</td></tr></tbody></table></section>", "evidence": "<section class=\"section\"><h2>证据与复现清单</h2><table><thead><tr><th>检查项</th><th>命令 / 方法</th><th>结果</th></tr></thead><tbody><tr><td>V2.81-V2.90 focused regression</td><td><code>PYTHONPATH=backend backend/.venv/bin/python -m pytest -q backend/tests/test_v2_81_real_document_sample_contract.py backend/tests/test_v2_82_real_document_import_wiki.py backend/tests/test_v2_83_retrieval_graphrag_source_trace.py backend/tests/test_v2_84_quality_governance_real_document.py backend/tests/test_v2_85_release_closure_rerun.py backend/tests/test_v2_86_full_corpus_e2e_hardening.py backend/tests/test_v2_87_route_a_representative_acceptance.py backend/tests/test_v2_88_quality_governance_human_review.py backend/tests/test_v2_89_external_project_e2e_closure.py backend/tests/test_v2_90_release_gate_restore_hygiene.py backend/tests/test_public_surface_guard.py</code></td><td><span class=\"badge ok\">accepted</span></td></tr><tr><td>compileall</td><td><code>PYTHONPATH=backend backend/.venv/bin/python -m compileall -q backend/data_service backend/app/api backend/tests</code></td><td><span class=\"badge ok\">accepted</span></td></tr><tr><td>diff check</td><td><code>git diff --check</code></td><td><span class=\"badge ok\">accepted</span></td></tr><tr><td>protected legacy diff</td><td><code>git diff -- backend/app/api/v1/data_service.py backend/data_service/service.py</code></td><td><span class=\"badge ok\">accepted</span></td></tr><tr><td>headless screenshot capture</td><td><code>Chrome headless with temporary user-data-dir; profile removed after capture</code></td><td><span class=\"badge ok\">accepted</span></td></tr></tbody></table><h3>截图 Manifest</h3><table><thead><tr><th>截图</th><th>主题</th><th>证明内容</th></tr></thead><tbody><tr><td><code>01_overview.png</code></td><td>总览状态</td><td>展示 Full Corpus accepted、Route A needs_review、外部项目 unavailable、Release Gate blocked。</td></tr><tr><td><code>02_architecture.png</code></td><td>目标架构与当前实现</td><td>展示公开入口层、服务层、证据层和边界。</td></tr><tr><td><code>03_user_path.png</code></td><td>用户场景体验路径</td><td>展示维护者从真实语料到发布出门判断的体验链路。</td></tr><tr><td><code>04_acceptance_matrix.png</code></td><td>验收矩阵</td><td>展示每个 PRD 能力对应状态和不能 accepted 的原因。</td></tr><tr><td><code>05_evidence_manifest.png</code></td><td>证据与复现清单</td><td>展示测试命令、公开接口、受保护文件和报告限制。</td></tr></tbody></table></section>"};const params=new URLSearchParams(location.search);const key=params.get('view')||'overview';document.getElementById('content').innerHTML=views[key]||views.overview;</script></body></html>

diff --git a/docs/V2.x/V2_86_90_REAL_DOCUMENT_FULL_CORPUS_RELEASE_HARDENING_FULL_COVERAGE_MATRIX.md b/docs/V2.x/V2_86_90_REAL_DOCUMENT_FULL_CORPUS_RELEASE_HARDENING_FULL_COVERAGE_MATRIX.md
@@ -20,7 +20,7 @@ Date: 2026-07-01
 
 | PRD 能力 | 实现状态 | 真实仓库验收状态 | 证据 |
 | --- | --- | --- | --- |
-| 全量真实文档构建 | implemented | accepted | `backend/tests/test_v2_86_full_corpus_e2e_hardening.py`，真实 `docs/V2.x` 处理 867 行 |
+| 全量真实文档构建 | implemented | accepted | `backend/tests/test_v2_86_full_corpus_e2e_hardening.py`，最新可视化审计复跑真实 `docs/V2.x` 处理 879 行 |
 | HTML extractor 失败分类 | implemented | accepted | focused test 覆盖 `extractor_bug` structured blocker；真实仓库本轮无 parser failure |
 | 全量检索与 Source trace | implemented | accepted | full corpus rows 使用 `repo://docs/V2.x/...` source refs，并保留 GraphRAG claim boundary |
 | Route A 资料包合同 | implemented | needs_review | 缺用户代表性真实资料；`needs_review` 保留 |

diff --git a/docs/V2.x/V2_86_90_REAL_DOCUMENT_FULL_CORPUS_RELEASE_HARDENING_STAGE_ACCEPTANCE_AUDIT_REPORT.md b/docs/V2.x/V2_86_90_REAL_DOCUMENT_FULL_CORPUS_RELEASE_HARDENING_STAGE_ACCEPTANCE_AUDIT_REPORT.md
@@ -37,7 +37,7 @@ Phase-specific planning and pre-implementation audit baselines are now recorded 
 
 - Input repository: current `data_service` working tree.
 - Full corpus input: `docs/V2.x`.
-- Full corpus result: `accepted`, 867 processed document rows.
+- Full corpus result: `accepted`, 879 processed document rows in the latest visual-audit rerun.
 - Route A result: `needs_review`, because no user representative real document pack or manual review evidence was provided.
 - Quality review result: `needs_review`, because no actual human quality-review decisions were provided.
 - External project result: `structured_unavailable`, because `codexPat`, `HarnessOS`, and `Navia` paths were not available.
